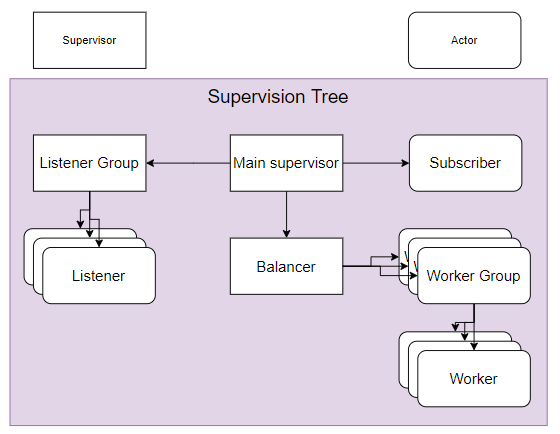
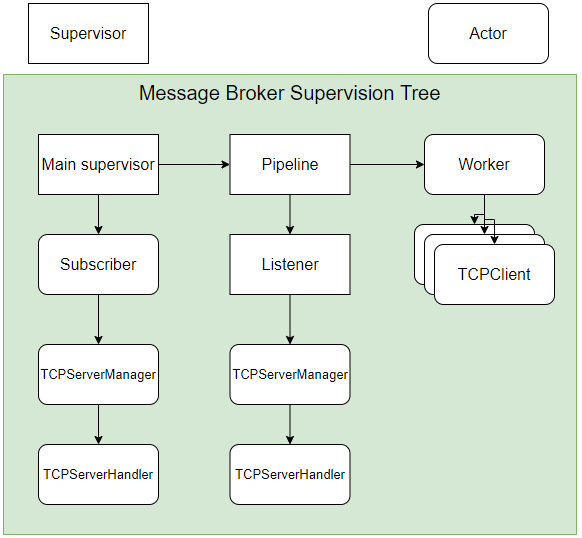
change readme and images

diff --git a/README.md b/README.md
@@ -4,45 +4,70 @@ University laboratory nr. 3 for Real Time Programming course
 
 # Technologies
 
-- Scala
-- Akka framework
-- more?
+- Message broker:
+    - Scala == 2.13.1
+    - Akka == 2.6.19
+- Producer:
+    - python == 3.9
+    - sseclient-py ~= 1.7.2
+- Consumer:
+    - python == 3.9
 
-# Actor
-
-- `Main supervisor`: Actor that starts the `ListenerGroup`, `Balancer` and `Subscriber` actors.
-- `ListenerGroup`: Actor that creates and supervises `Listener` actors.
-- `Balancer`: Actor that creates `Worker Group` actors.
-- `Worker Group`: Actor that creates `Worker` actors.
-- `Subscriber`: Actor that binds one `Worker group` actor to one `Listener group` actor when a producer subscribes.
-- `Worker`: Actor that sends the messages to the consumers.
-- `Listener`: Actor that receives messages from the producers. Sends the messages to the corresponding `Worker Group`
-  actor.
+# Actors
+- `Main supervisor`: The supervisor that starts the `Subscriber` and the `Pipeline` actors.
+- `Pipeline`: Supervisor for `Listener` and `Worker` actors.
+- `Subscriber`: The actor that receives subscribe/unsubscribe requests as JsonMessages from `TcpServerManager`.
+Forwards `Worker` actors which consumer to subscribe/unsubscribe to what topic.
+- `Listener`: Supervisor for `TcpServerManager` and `TcpServerHandler`. Forward messages from `TcpServerManager` to `Worker` actors.
+- `TcpServerManager`: Actor that manages the TCP connection and forwards JsonMessages to `Listener`.
+- `TcpServerHandler`: Actor that handles the TCP packets serializes them into JsonMessages and forwards them to `TcpServerManager`.
+- `Worker`: Actor that sends the correct messages to the corresponding consumers using `TcpClient`.
 
 # Actor input-output
 
-- `ListenerGroup`: Receives message that contains an address to a worker group to create `Listener` actors.
-- `WorkerGroup`: Receives messages from the `Listener` actors. Sends the messages to the `Worker` actors.
-- `Worker`: Receives message and Consumer address from the `Worker Group` actors. Sends the messages to the Client.
-- `Subscriber`: Receives subscription requests from Clients or Producers.
-- `Listener`: Receives messages from a Producer. Sends the messages to the according `Worker Group` actor.
+- `Worker`: 
+  - Input: `JsonMessage`, `SubscribeConsumer`, `UnsubscribeConsumer`.
+  - Output: `JsonMessage`.
+- `Subscriber`: 
+  - Input: `JsonMessage`.
+  - Output: `SubscribeConsumer`, `UnsubscribeConsumer`.
+- `Listener`:
+  - Input: `JsonMessage`.
+  - Output: `JsonMessage`.
+- `TcpServerManager`:
+  - Input: `JsonMessage`.
+  - Output: `JsonMessage`.
+- `TcpServerHandler`:
+  - Input: `ByteString`.
+  - Output: `JsonMessage`.
+- `TcpClient`:
+  - Input: `JsonMessage`.
+  - Output: `ByteString`.
+- `Pipeline`:
+  - Input: `CreateListener`.
+  - Output: None.
 
+# IO Classes
+- `JsonMessage` is a class that contains string message and a sender, the message being easily processed into a json object.
+- `SubscribeConsumer` is a class that contains a topic and a consumer.
+- `UnsubscribeConsumer` is a class that contains a topic and a consumer.
+- `CreateListener` is a class that contains a port number.
 # Endpoints
 
-- `http://localhost:8080/prod_subscribe`: endpoint for the `Subscriber` actor for subscription of producers.
-- `http://localhost:8080/prod_unsubscribe`: endpoint for the `Subscriber` actor for unsubscription of producers.
-- `http://localhost:8080/client_subscribe`: endpoint for the `Subscriber` actor for subscription of clients.
-- `http://localhost:8080/client_unsubscribe`: endpoint for the `Subscriber` actor for unsubscription of clients.
-- `http://localhost:808x/publish`: endpoint for the x-th `Listener` actor.
+- `localhost:9999` endpoint for the `Subscriber` actor. Accepts json messages that contain:
+    - Operation: `"operation" : "subscribe"` or `"operation" : "unsubscribe"`
+    - Topics: `"topic" : ["topic1", "topic2", "topic3"]`
+    - Consumer_address: `"consumer_address" : "localhost:xxxxx"`
+- `localhost:9000` endpoint for the first `Listener` actor. Accepts json messages from docker image.
+- `localhost:9001` endpoint for the second `Listener` actor. Accepts json messages from docker image.
 
 # Supervision tree
 
 ![](images/supervision_tree.png)
 
-# Subscribe and unsubscribe workflows
+# Subscribe and unsubscribe workflow
 
-![](images/producer_sub_unsub.png)
-![](images/consumer_sub_unsub.png)
+![](images/sub_unsub_workflow.png)
 
 # Publish workflow
 
